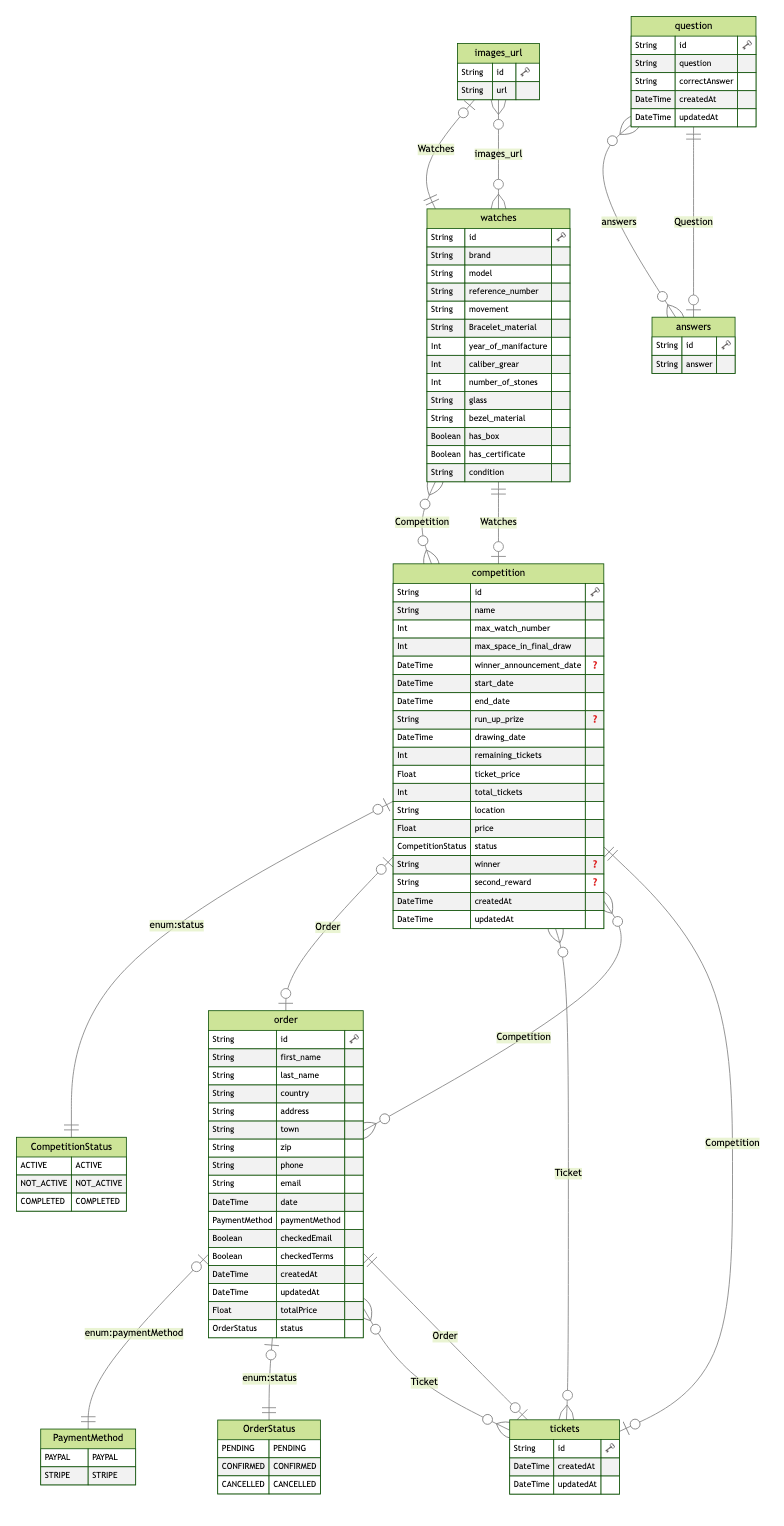
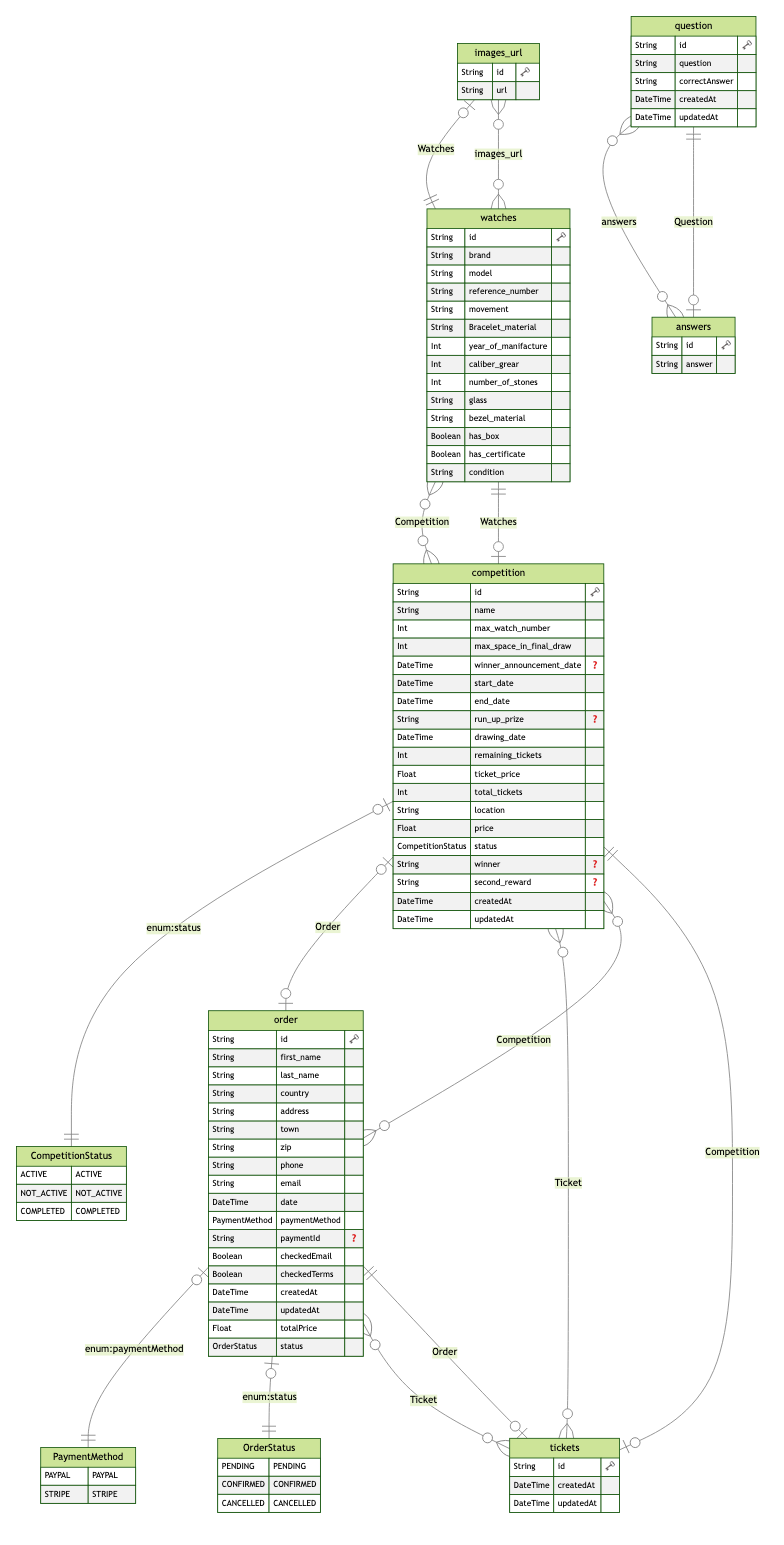
create order updates

diff --git a/src/server/api/routers.ts b/src/server/api/routers.ts
@@ -1,83 +1,90 @@
 import { z } from "zod";
 import { createTRPCRouter, publicProcedure } from "@/server/api/trpc";
-import { CompetitionStatus } from "@prisma/client";
-import { CreateOrderSchema, getBaseUrl } from "@/utils";
-import {} from "@/utils/zodSchemas";
-import _stripe from "stripe";
-import { env } from "@/env.mjs";
+import { CompetitionStatus, OrderStatus } from "@prisma/client";
+import { getBaseUrl,CreateOrderSchema } from "@/utils";
 
-const stripe = new _stripe(env.STRIPE_SECRET_KEY, {
-  apiVersion: "2022-11-15",
-});
+
 
 export const OrderRouter = createTRPCRouter({
-  getAll: publicProcedure
-    .input(z.array(z.string()).optional())
-    .query(async ({ ctx, input }) => {
-      return await ctx.prisma.order.findMany({
+  getAll: publicProcedure.input(z.array(z.string()).optional()).query(
+    async ({ ctx, input }) =>
+      await ctx.prisma.order.findMany({
         where: {
           id: input ? { in: input } : {},
         },
-      });
-    }),
-});
-
-export const StripeRouter = createTRPCRouter({
-  createCheckoutSession: publicProcedure
-
-    .input(
-      z.object({
-        email: z.string().email(),
-        address: z.string(),
-        comps: z.array(
-          z.object({
-            compID: z.string(),
-            quantity: z.number().min(1),
-          })
-        ),
       })
+  ),
+  create: publicProcedure
+    .input(
+      CreateOrderSchema
     )
-    .mutation(async ({ input, ctx }) => {
-      return await stripe.checkout.sessions.create({
-        payment_method_types: ["card"],
-        mode: "payment",
-        line_items: (
-          await ctx.prisma.competition.findMany({
-            include: {
-              Watches: {
+    .mutation(async ({ ctx, input }) => {
+      try{
+        const { payment_intent, url } = await ctx.stripe.checkout.sessions.create(
+          {
+            payment_method_types: ["card"],
+            mode: "payment",
+            line_items: (
+              await ctx.prisma.competition.findMany({
                 include: {
-                  images_url: true,
+                  Watches: {
+                    include: {
+                      images_url: true,
+                    },
+                  },
                 },
+              })
+            )
+              .filter((comp) =>
+                input.comps.some(({ compID }) => compID === comp.id)
+              )
+              .map((comp) => ({
+                price_data: {
+                  //automatic_tax : true,
+                  currency: "gbp",
+                  product_data: {
+                    name: comp.Watches.model + comp.Watches.movement,
+                    //images: [`${getBaseUrl()+comp.Watches.images_url[0]}`],
+                  },
+                  unit_amount: Math.floor(comp.ticket_price * 100), // in cents
+                },
+                quantity:
+                  input.comps.find((item) => item.compID === comp.id)?.quantity ||
+                  0,
+              })),
+            success_url: `${getBaseUrl()}/stripe?payment=success`,
+            cancel_url: `${getBaseUrl()}/CheckoutPage`,
+          }
+        );
+        const { id } = await ctx.prisma.order.create({
+          data: {
+            ...input,
+            status: OrderStatus.PENDING,
+            paymentId: z.string().optional().parse(payment_intent),
+            Ticket: {
+              createMany: {
+                data: input.comps.map((item) => ({
+                  competitionId: item.compID,
+                })),
               },
             },
-          })
-        )
-          .filter((comp) => input.comps.some((item) => item.compID === comp.id))
-          .map((comp) => ({
-            //customer_email : input.email,
-
-            price_data: {
-              //automatic_tax : true,
-              currency: "gbp",
-              product_data: {
-                name: comp.Watches.model + comp.Watches.movement,
-                //images: [`${getBaseUrl()+comp.Watches.images_url[0]}`],
-              },
-              unit_amount: Math.floor(comp.ticket_price * 100), // in cents
-            },
-            quantity:
-              input.comps.find((item) => item.compID === comp.id)?.quantity ||
-              0,
-          })),
-        success_url: `${getBaseUrl()}/stripe?payment=success`,
-        cancel_url: `${getBaseUrl()}/CheckoutPage`,
-      });
-
-      // if the session was created successfully
-      // insert the info in the database
-      // await prisma...
+          },
+        });
+        return {
+          id,
+          payment_intent,
+          url,
+        }
+      } catch (e) {
+        console.error(e)
+        return {
+          error : "Error in creating the order",
+          url : null
+        }
+      }
     }),
 });
+
 const MutateCompSchema = z.object({
   id: z.string(),
   name: z.string().optional(),
@@ -269,7 +276,7 @@ export const WatchesRouter = createTRPCRouter({
         data: {
           ...data,
           images_url: {
-            create: input.images_url.map((url) => ({ url })),
+            create: images_url.map((url) => ({ url })),
           },
         },
       });
@@ -356,38 +363,6 @@ export const WatchesRouter = createTRPCRouter({
       });
     }),
     */
-});
-
-export const PaymentRouter = createTRPCRouter({
-  getAll: publicProcedure.query(({ ctx }) => {
-    return ctx.prisma.order.findMany();
-  }),
-
-  create: publicProcedure
-    .input(CreateOrderSchema)
-    .mutation(({ ctx, input }) => {
-      const { comp, ...data } = input;
-
-      //TODO: Create Order
-      console.log(input);
-
-      return {
-        success: true,
-        error: "no error",
-      };
-
-      /*return ctx.prisma.order.create({
-      data: {
-        name: input.name,
-      },
-    });
-      return {
-        status : "success",
-        error : null
-      }
-    }
-    ),*/
-    }),
 });
 
 export const QuestionRouter = createTRPCRouter({

diff --git a/src/components/CheckoutComp.tsx b/src/components/CheckoutComp.tsx
@@ -14,10 +14,8 @@ import type { Moment } from "moment";
 const CheckoutComp = () => {
   const router = useRouter();
 
-  const { mutateAsync: stripeCheckout } =
-    api.Stripe.createCheckoutSession.useMutation();
+  const { mutateAsync: createOrder } = api.Order.create.useMutation();
   const { competitions, cardDetails } = useCart();
-  const { mutateAsync: createOrder } = api.Payment.create.useMutation();
 
   const { data: items } = api.Competition.getAll.useQuery({
     ids: competitions.map((comp) => comp.compID),
@@ -66,24 +64,14 @@ const CheckoutComp = () => {
                 if (!IsLegal(values.date)) {
                   setError("You must be 18 years old to purchase a ticket");
                 } else {
-                  const Prooo = await Promise.all([
-                    await createOrder(res.data),
-                    await stripeCheckout({
-                      email: values.email,
-                      address: values.address,
-                      comps: values.comp.map((comp) => ({
-                        compID: comp.compID,
-                        quantity: comp.number_tickets,
-                      })),
-                    }),
-                  ]);
-                  const [success, error] = Prooo;
-
-                  if (!success) setError(error.payment_status);
-                  else {
-                    setError(undefined);
-                    Prooo[1].url && (await router.push(Prooo[1].url));
-                  }
+                    const {
+                      url,
+                      error
+                    }= await createOrder(res.data)
+                    if (url) {
+                      await router.push(url)
+                    }
+                    setError(error || "Error in the creating the order")
                 }
               }
               actions.setSubmitting(false);

diff --git a/src/utils/index.ts b/src/utils/index.ts
@@ -1,29 +1,19 @@
 import { PaymentMethod } from "@prisma/client";
 import { z } from "zod";
+import {OrderSchema} from "./zodSchemas"
 export * from "./api";
 
-export const CreateOrderSchema = z.object({
-  first_name: z.string(),
-  last_name: z.string(),
-  country: z.string(),
-  address: z.string(),
-  town: z.string(),
-  zip: z.string(),
-  phone: z.string(),
-  email: z.string(),
-  date: z.date().default(new Date()),
-  paymentMethod: z.enum([PaymentMethod.PAYPAL, PaymentMethod.STRIPE]),
-  totalPrice: z.number(),
-  checkedEmail: z.boolean().default(false),
-  checkedTerms: z.boolean().default(false),
-  comp: z.array(
+export const CreateOrderSchema =  OrderSchema.extend({
+  comps: z.array(
     z.object({
       compID: z.string(),
-      number_tickets: z.number(),
-      price_per_ticket: z.number(),
+      quantity: z.number().min(1),
     })
   ),
-});
+}).omit({
+  status: true,
+  id: true,
+})
 
 export const Formater = (value: number | bigint) =>
   new Intl.NumberFormat("en-US", {

diff --git a/src/server/api/trpc.ts b/src/server/api/trpc.ts
@@ -17,6 +17,7 @@
 import { type CreateNextContextOptions } from "@trpc/server/adapters/next";
 
 import { prisma } from "@/server/db";
+import stripe from "stripe";
 
 type CreateContextOptions = Record<string, never>;
 
@@ -33,6 +34,9 @@ type CreateContextOptions = Record<string, never>;
 const createInnerTRPCContext = (_opts: CreateContextOptions) => {
   return {
     prisma,
+    stripe: new stripe(env.STRIPE_SECRET_KEY, {
+      apiVersion: "2022-11-15",
+    }),
   };
 };
 
@@ -56,6 +60,7 @@ export const createTRPCContext = (_opts: CreateNextContextOptions) => {
 import { initTRPC } from "@trpc/server";
 import superjson from "superjson";
 import { ZodError } from "zod";
+import { env } from "@/env.mjs";
 
 const t = initTRPC.context<typeof createTRPCContext>().create({
   transformer: superjson,

diff --git a/src/components/Store.ts b/src/components/Store.ts
@@ -55,7 +55,7 @@ export const useStore = create<{
       }),
       {
         name: "store",
-        storage: createJSONStorage(() => sessionStorage)
+        storage: createJSONStorage(() => sessionStorage),
       }
     )
   )
@@ -100,7 +100,7 @@ export const useCart = create<RootState>()(
       }),
       {
         name: "cart-store",
-        storage: createJSONStorage(() => sessionStorage)
+        storage: createJSONStorage(() => sessionStorage),
       }
     )
   )

diff --git a/src/server/api/root.ts b/src/server/api/root.ts
@@ -2,8 +2,6 @@ import { createTRPCRouter } from "@/server/api/trpc";
 import {
   WatchesRouter,
   CompetitionRouter,
-  PaymentRouter,
-  StripeRouter,
   QuestionRouter,
   OrderRouter,
 } from "@/server/api/routers";
@@ -16,8 +14,6 @@ import {
 export const appRouter = createTRPCRouter({
   Competition: CompetitionRouter,
   Watches: WatchesRouter,
-  Payment: PaymentRouter,
-  Stripe: StripeRouter,
   Order: OrderRouter,
   Question: QuestionRouter,
 });

diff --git a/src/pages/_app.tsx b/src/pages/_app.tsx
@@ -8,7 +8,14 @@ import { api } from "@/utils/api";
 
 import "@/styles/globals.css";
 
-const queryClient = new QueryClient();
+const queryClient = new QueryClient({
+  defaultOptions: {
+    queries: {
+      refetchOnWindowFocus: false,
+      cacheTime: 1000 * 60 * 60 * 24, // 24 hours
+    },
+  },
+});
 
 const MyApp: AppType = ({ Component, pageProps }) => {
   return (

diff --git a/src/utils/zodSchemas/order.ts b/src/utils/zodSchemas/order.ts
@@ -15,6 +15,7 @@ export const OrderSchema = z.object({
   paymentMethod: z.nativeEnum(PaymentMethod),
   checkedEmail: z.boolean(),
   checkedTerms: z.boolean(),
+  paymentId: z.string().optional(),
   createdAt: z.date(),
   updatedAt: z.date(),
   totalPrice: z.number(),
